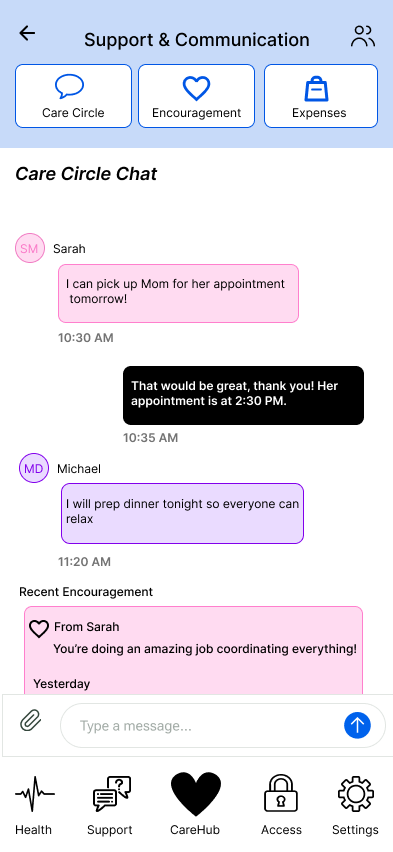
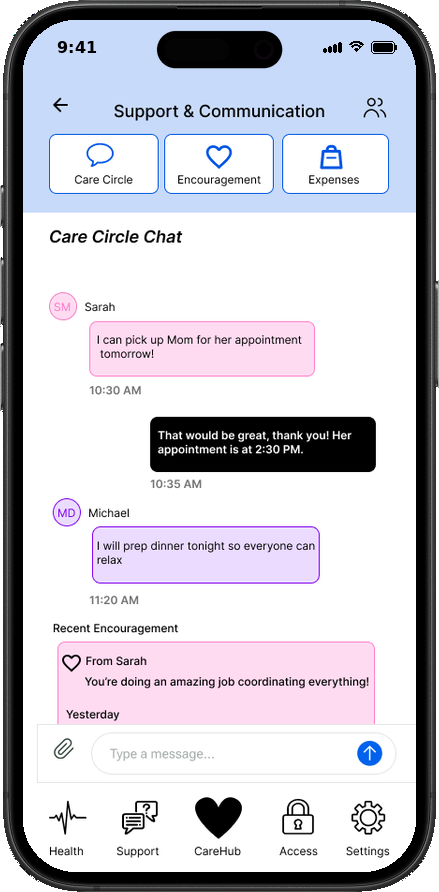
Caregiver Hub: put the 10 app screens into the iPhone frame
Each screen gets an iOS status bar in its own top color, is scaled to fit
below it, and is composited into the same iPhone frame as the GymPal and
Data Dignity mockups (transparent outside the phone). The images use the
no-box phone styling, with version tags so browsers load the new files.

Claude-Session: https://claude.ai/code/session_01A21i7FNsb7MAwikqp1hDat

diff --git a/docs/CaregiverHub.html b/docs/CaregiverHub.html
@@ -52,11 +52,11 @@
 
         <div class="figure-grid">
             <figure>
-                <img src="caregiver-hub-home.png" alt="Mom’s CareHub home for John, with a week strip, today’s overview cards, and daily tasks including an unassigned dinner." />
+                <img class="device" src="caregiver-hub-home.png?v=20261111" alt="Mom’s CareHub home for John, with a week strip, today’s overview cards, and daily tasks including an unassigned dinner." />
                 <figcaption>Home — today first, then who owns the next hour.</figcaption>
             </figure>
             <figure>
-                <img src="caregiver-hub-tasks.png" alt="All Tasks list with filters and five care tasks tagged by category, priority, time, and assignee." />
+                <img class="device" src="caregiver-hub-tasks.png?v=20261111" alt="All Tasks list with filters and five care tasks tagged by category, priority, time, and assignee." />
                 <figcaption>All tasks — one list instead of three threads and a spreadsheet.</figcaption>
             </figure>
         </div>
@@ -91,7 +91,7 @@
                 </li>
                 <li>
                     <span class="process-stage">02 · Hi-fi, after testing</span>
-                    <div class="process-media"><img src="caregiver-hub-home.png" alt="Mom’s CareHub home with today’s overview, assigned tasks, and an unassigned dinner." loading="lazy" /></div>
+                    <div class="process-media process-media--device"><img src="caregiver-hub-home.png?v=20261111" alt="Mom’s CareHub home with today’s overview, assigned tasks, and an unassigned dinner." loading="lazy" /></div>
                     <p>Paper testers asked who was already booked, so the hi-fi shows who’s free before you assign.</p>
                 </li>
             </ol>
@@ -183,11 +183,11 @@
 
         <div class="figure-grid">
             <figure>
-                <img src="caregiver-hub-delegate.png" alt="Delegate Task screen for prepare dinner, with Sarah Martinez selected as available and Michael marked busy with two tasks." loading="lazy" />
+                <img class="device" src="caregiver-hub-delegate.png?v=20261111" alt="Delegate Task screen for prepare dinner, with Sarah Martinez selected as available and Michael marked busy with two tasks." loading="lazy" />
                 <figcaption>Delegate — available versus busy, before you pile on another name.</figcaption>
             </figure>
             <figure>
-                <img src="caregiver-hub-team.png" alt="Care Team screen with member counts, quick actions, and cards for John Doe and Sarah Mitchell with message and view-tasks actions." loading="lazy" />
+                <img class="device" src="caregiver-hub-team.png?v=20261111" alt="Care Team screen with member counts, quick actions, and cards for John Doe and Sarah Mitchell with message and view-tasks actions." loading="lazy" />
                 <figcaption>Care team — who is here, what they can do, how to reach them.</figcaption>
             </figure>
         </div>
@@ -202,11 +202,11 @@
 
         <div class="figure-grid">
             <figure>
-                <img src="caregiver-hub-access.png" alt="Privacy and Access screen listing Sarah, Michael, and Dr. Chen with checkmarks and hidden-eye icons for health records, tasks, and messages." loading="lazy" />
+                <img class="device" src="caregiver-hub-access.png?v=20261111" alt="Privacy and Access screen listing Sarah, Michael, and Dr. Chen with checkmarks and hidden-eye icons for health records, tasks, and messages." loading="lazy" />
                 <figcaption>Access — Sarah sees the chart. Michael does not. Dr. Chen does not assign dinner.</figcaption>
             </figure>
             <figure>
-                <img src="caregiver-hub-support.png" alt="Support and Communication with Care Circle chat, messages from Sarah and Michael, and a recent encouragement note." loading="lazy" />
+                <img class="device" src="caregiver-hub-support.png?v=20261111" alt="Support and Communication with Care Circle chat, messages from Sarah and Michael, and a recent encouragement note." loading="lazy" />
                 <figcaption>Support — the ride, the dinner, and a note that is allowed to be kind.</figcaption>
             </figure>
         </div>
@@ -221,11 +221,11 @@
 
         <div class="figure-grid">
             <figure>
-                <img src="caregiver-hub-health.png" alt="Health Log with weekly entry counts, a quick-log grid, recent medication and symptom cards, and a lab results file." loading="lazy" />
+                <img class="device" src="caregiver-hub-health.png?v=20261111" alt="Health Log with weekly entry counts, a quick-log grid, recent medication and symptom cards, and a lab results file." loading="lazy" />
                 <figcaption>Health log — meds, a symptom, a PDF. Not another portal login.</figcaption>
             </figure>
             <figure>
-                <img src="caregiver-hub-vitals.png" alt="Vitals screen with heart rate, a blood pressure trend marked high, and a call primary physician action." loading="lazy" />
+                <img class="device" src="caregiver-hub-vitals.png?v=20261111" alt="Vitals screen with heart rate, a blood pressure trend marked high, and a call primary physician action." loading="lazy" />
                 <figcaption>Vitals — Friday is high. The next step is a call, not a chart to decode.</figcaption>
             </figure>
         </div>
@@ -237,11 +237,11 @@
 
         <div class="figure-grid">
             <figure>
-                <img src="caregiver-hub-expenses.png" alt="Expenses screen with uncategorized items, budget remaining, deductible and out-of-pocket bars, and three recent care transactions." loading="lazy" />
+                <img class="device" src="caregiver-hub-expenses.png?v=20261111" alt="Expenses screen with uncategorized items, budget remaining, deductible and out-of-pocket bars, and three recent care transactions." loading="lazy" />
                 <figcaption>Expenses — the receipt pile, with a number you can argue about.</figcaption>
             </figure>
             <figure>
-                <img src="caregiver-hub-settings.png" alt="Settings for Care Hub with a data-security banner, notification toggles, a Medicare card visibility switch, and caregiver access actions." loading="lazy" />
+                <img class="device" src="caregiver-hub-settings.png?v=20261111" alt="Settings for Care Hub with a data-security banner, notification toggles, a Medicare card visibility switch, and caregiver access actions." loading="lazy" />
                 <figcaption>Settings — notify me, show the card to the circle, invite the next person.</figcaption>
             </figure>
         </div>
